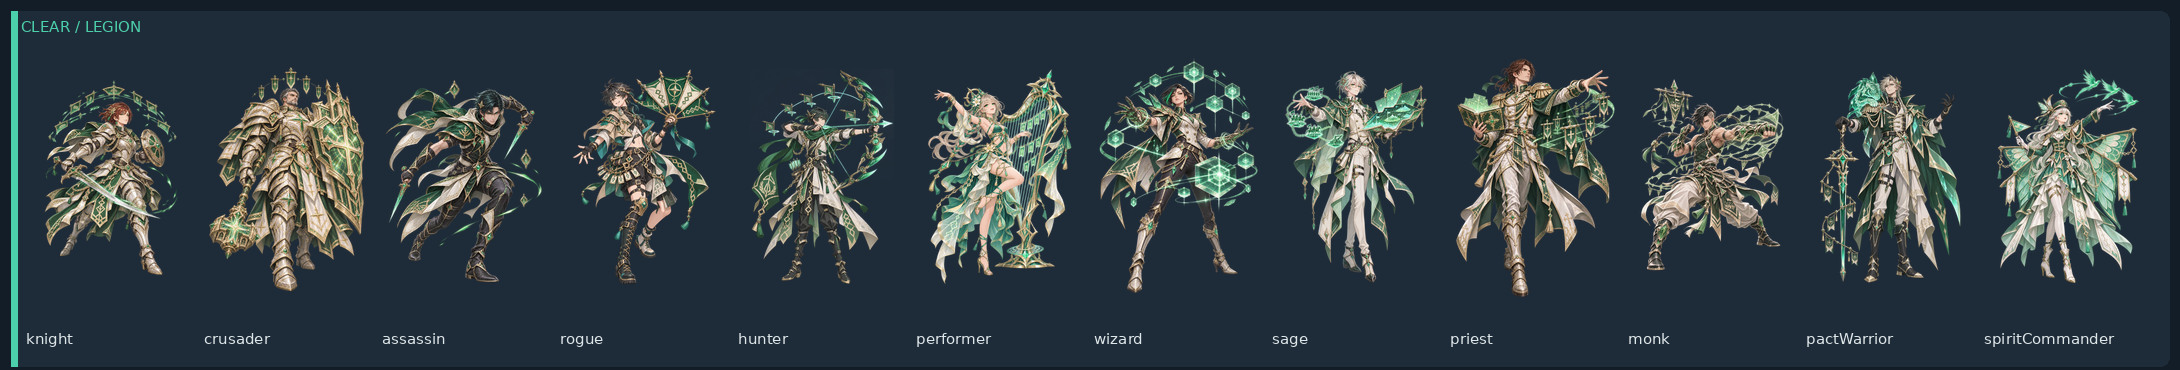
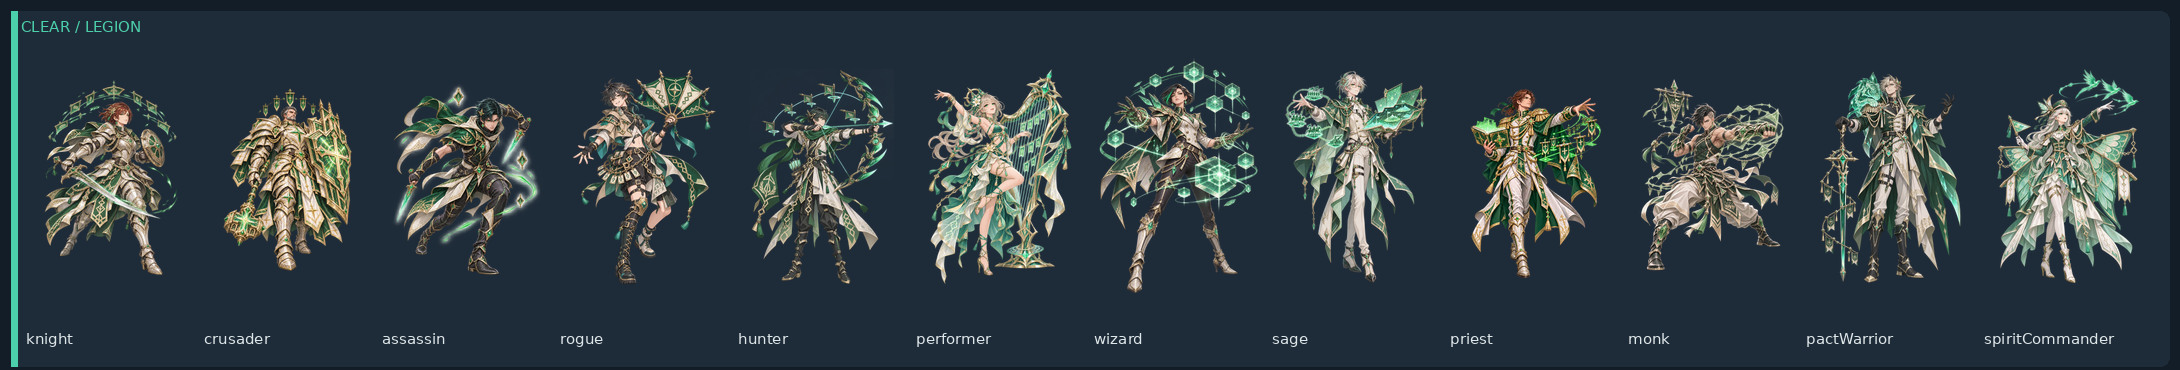
docs: refresh mantle sheets after six safe margin edits

Changed region(s): [[0.0936, 0.1784, 0.2495, 0.8027], [0.655, 0.1486, 0.7486, 0.8027]]

diff --git a/docs/HANDOFF_EXTREME_MANTLES_V2_2026-11-08.md b/docs/HANDOFF_EXTREME_MANTLES_V2_2026-11-08.md
@@ -526,3 +526,9 @@
 - 保留短墨青髮男性刺客、雙翡翠短直匕、黑綠分段輕甲、象牙白軍團披帶與動態突進；避免再次改成銀髮或手持重武器。
 - `dist/assets/extreme/mantles-v2/clear-assassin.webp` 透明 RGBA WebP 1024×1536。alpha≥128 bbox=(60,205,956,1378)，留白約左60／上205／右67／下157px，左側約5.9%（非常接近6%），其餘超過6%，武器披帶腳尖完整。另一版雖留白更大但人物高度只有67%，故未採用，保留較飽滿的76%高度版本。
 - 第一批六張已獨立完成，下一步確認其他貼邊素材及 10 張偏小人物比例；僅測試分支。
+
+## B4–B9 第一批安全留白總覽同步（2026-11-09）
+
+- 已從最新 48 張現行 WebP 重新執行 `python scripts/art/build-extreme-mantle-sheets.py`。本次變動為 48 圖總覽 `docs/assets/extreme-mantles-v2-contact-sheet.jpg` 以及 HP、CLEAR 各 12 張短圖；ATK、MATK 短圖未變動。
+- 六圖分別備份至遠端：HP 主教 `b771023`、HP 流氓 `24c1b2a`、HP 騎士 `b737d2f`、CLEAR 主教 `a4f0b69`、CLEAR 十字軍 `0fca0f4`、CLEAR 刺客 `163791a`。每次 `node --test tests/extreme-*.test.mjs` 均 36/36 通過。
+- 後續先查 `hp-crusader`、`clear-wizard` 等剩餘貼邊；再處理 MATK 八張和 CLEAR 修羅／騎士的低佔比。人物／武器完整與比例優先，不可強制無條件縮小或放大。正式版不動。
